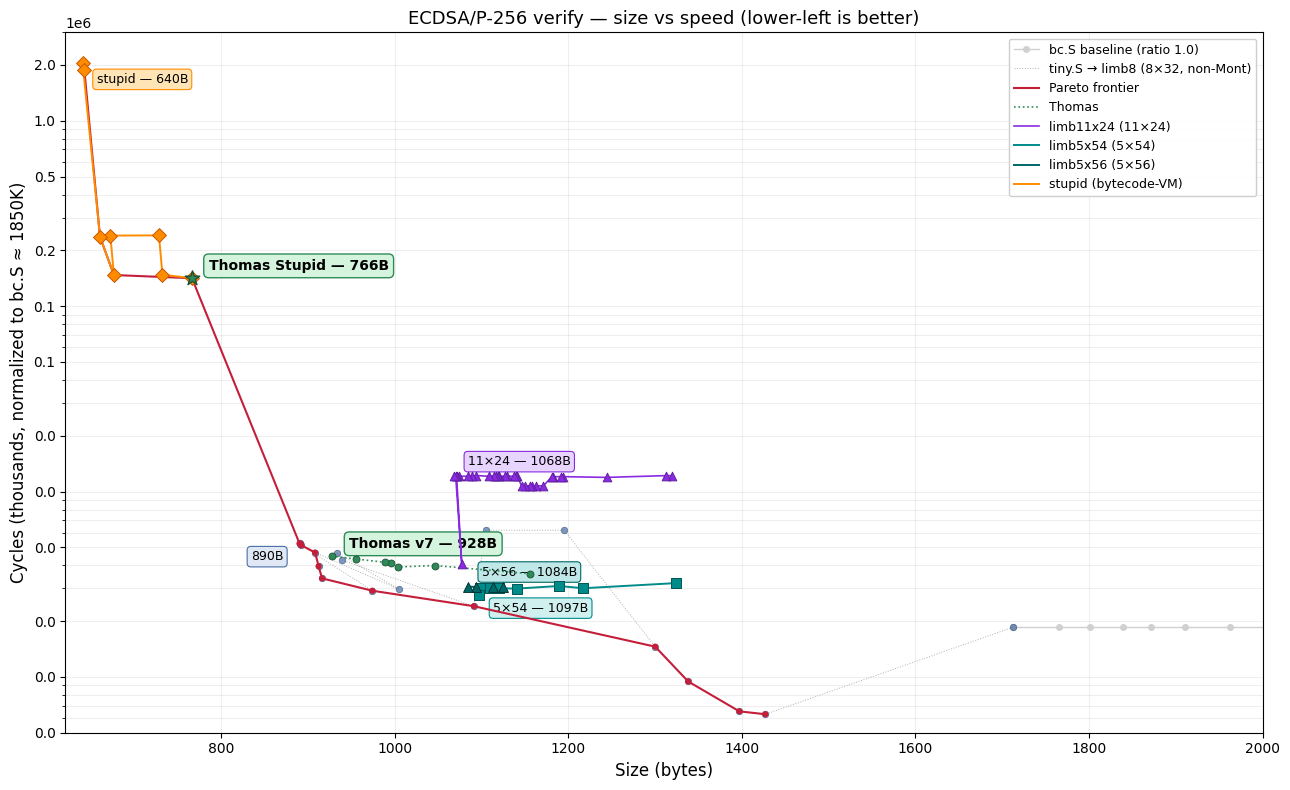
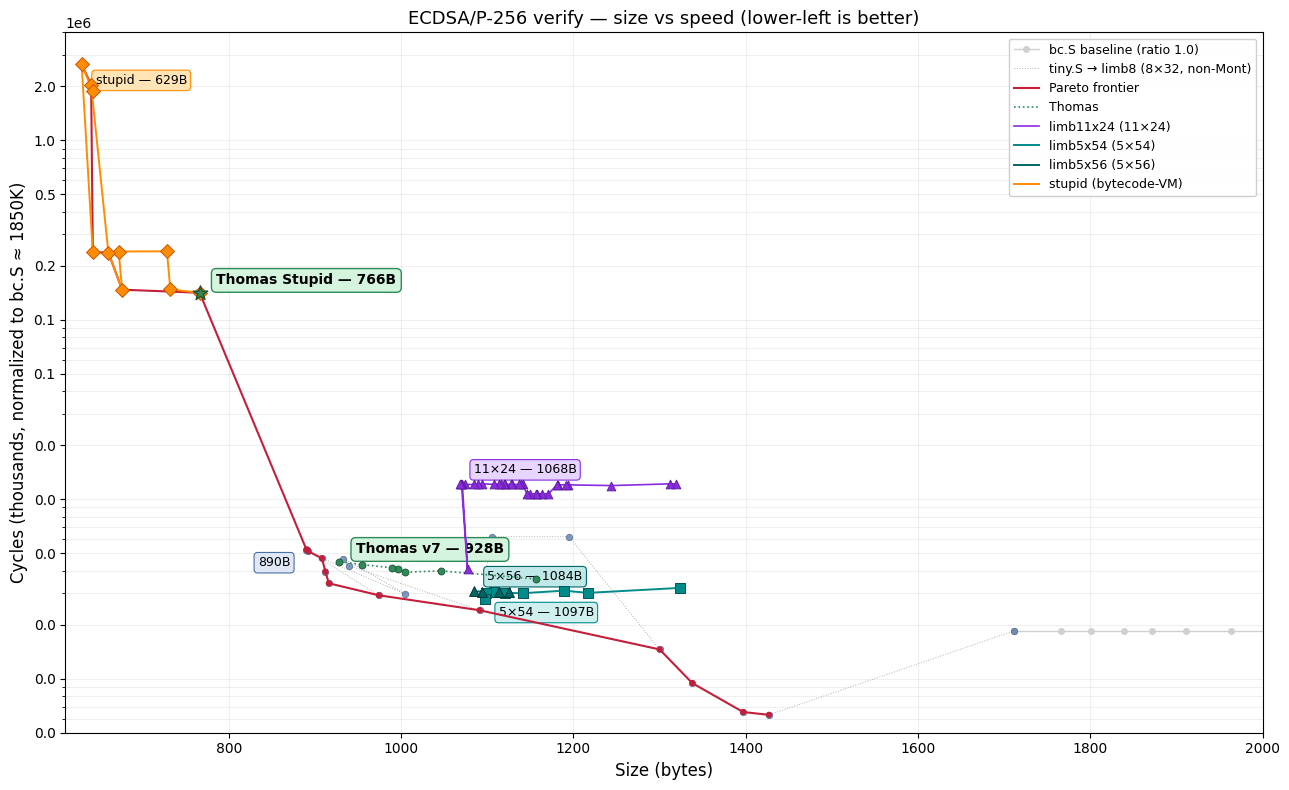
stupid: 640→629 B (−11 B) — op_for/next share, acc-into-push-loop, Wy=p−1
Session 5:
  −4 B: merge acc alloc into push loop (112 qw, drop subq $32,rsp)
  −4 B: op_for/op_next share xchg swap (Lswap_ret) + fall-through
  −1 B: negb cl gives 255 from FOR ext-index=1
  −1 B: sbbl r8d,r8d instead of setc r8b (CF preserved)
  −1 B: Wy init = acc=p−1; RCB infinity accepts any (0:Y:0), Y≠0
  +0 B: #ifdef NO_SMC build variant (642 B / 238M cyc)

137 B under Thomas's 766 B baseline. 4 build variants.

DEAD END CONFIRMED: RCB bytecode at theoretical minimum for accumulator
VM — slot count doesn't affect size, only LD/ST count does, already
minimal. The 5-temp reschedule from limb8 doesn't help here.

diff --git a/docs/plot_history.py b/docs/plot_history.py
@@ -332,8 +332,8 @@ ax.set_axisbelow(True)
 # a wall at the top, and separates the fast.S cluster (650K-1000K)
 # from the bc.S baseline (1850K).  Size stays linear — only 2:1 range.
 ax.set_yscale('log')
-ax.set_xlim(620, 2000)    # left edge tracks stupid size floor
-ax.set_ylim(500, 3000000) # stupid SMC at ~2G cyc (pipeline stalls)
+ax.set_xlim(610, 2000)    # left edge tracks stupid size floor
+ax.set_ylim(500, 4000000) # stupid SMC at ~2.6G cyc (pipeline stalls)
 # Clean up the log axis: major ticks at nice values, no scientific notation.
 from matplotlib.ticker import ScalarFormatter, LogLocator
 ax.yaxis.set_major_locator(LogLocator(base=10, subs=[1, 2, 5]))
